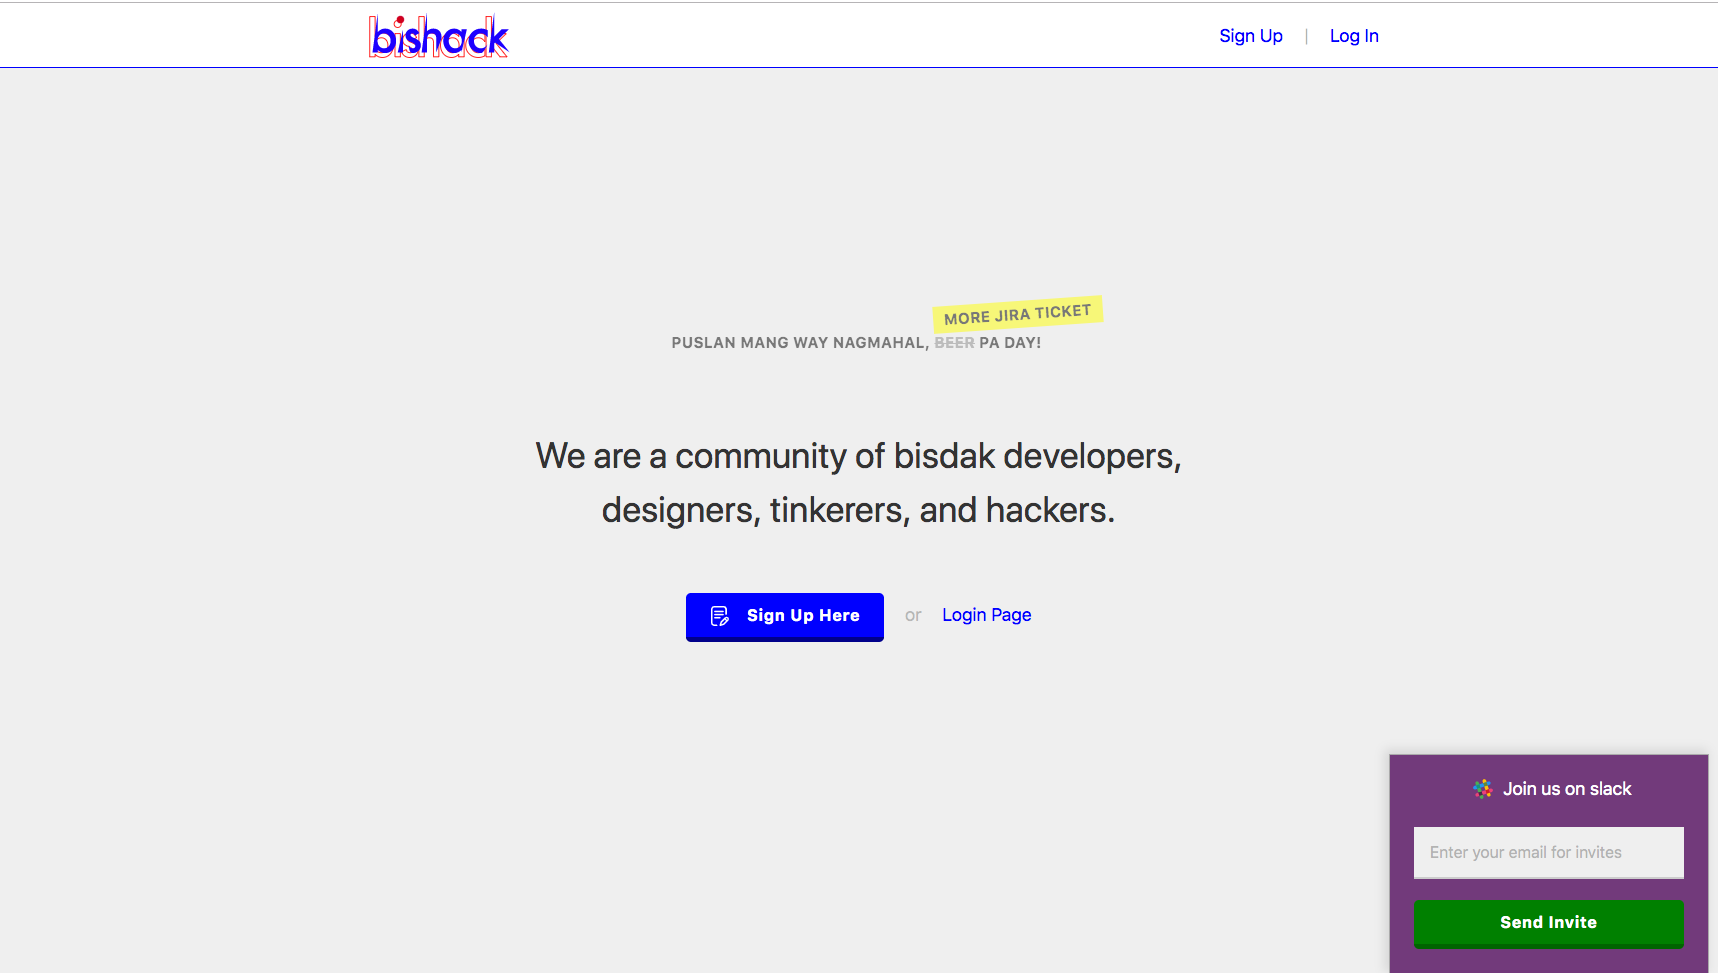
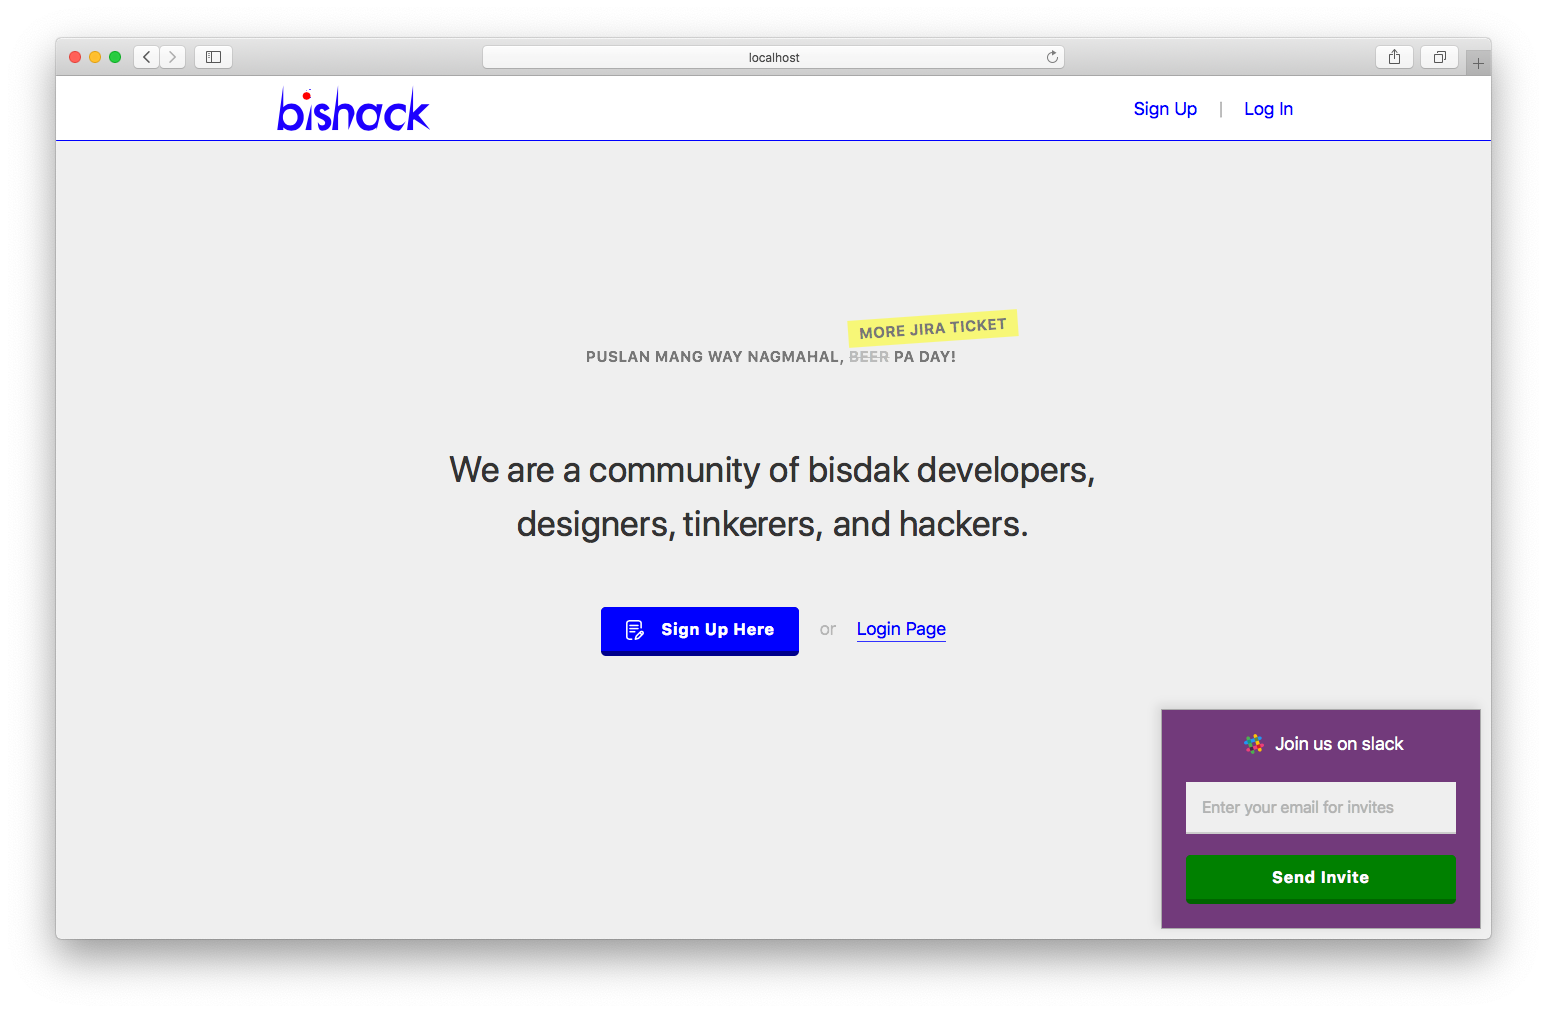
logov2

diff --git a/assets/css/main.css b/assets/css/main.css
@@ -81,7 +81,7 @@ header a.logo {
   text-indent: -100000px;
   background: transparent url(/images/bishack.svg) center center /contain no-repeat;
   width: 200px;
-  height: 44px;
+  height: 32px;
   position: relative;
   border: 0 !important;
 }
